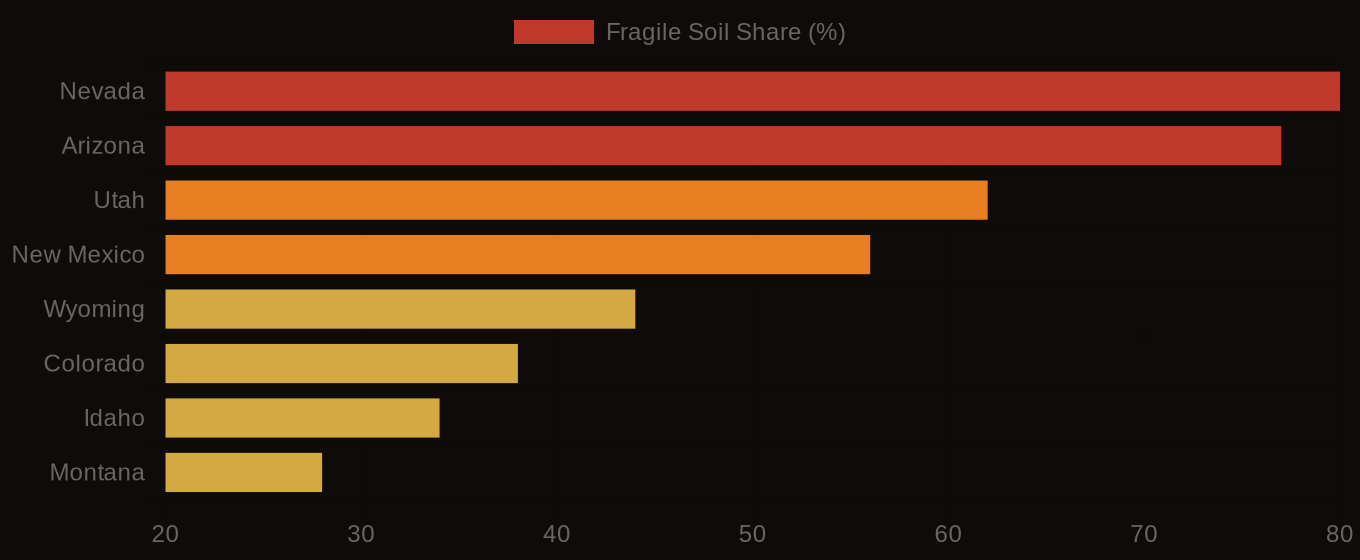
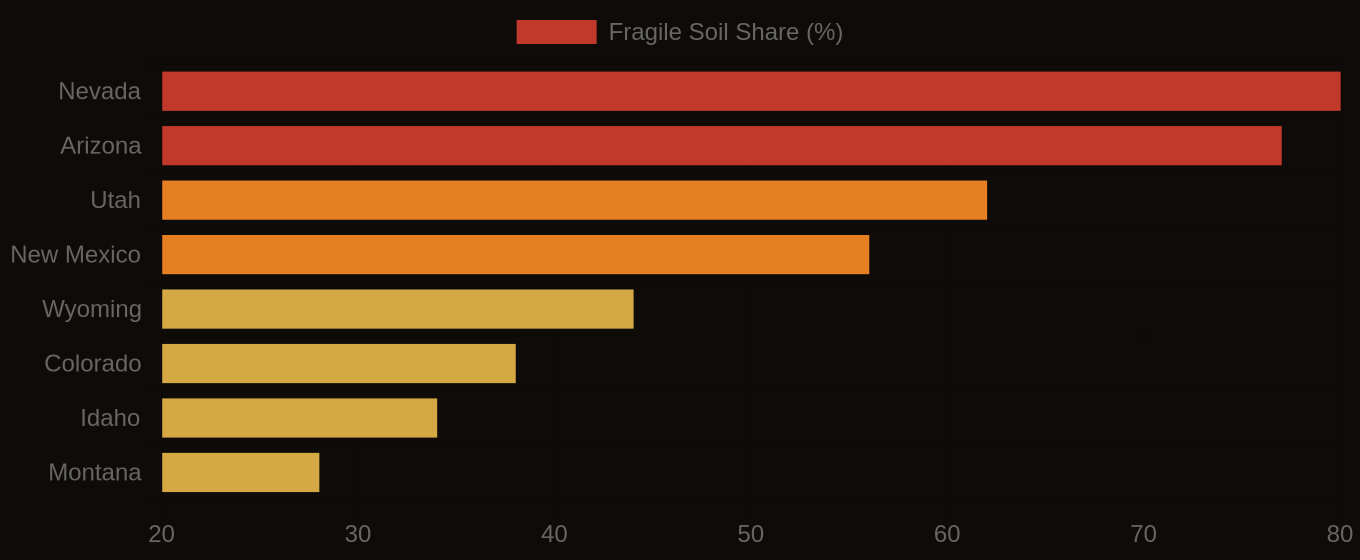
content: publish -- Nevada and Arizona Are Running Out of Stable Ground

diff --git a/articles/nevada-and-arizona-are-running-out-of-stable-ground-1780775741405.html b/articles/nevada-and-arizona-are-running-out-of-stable-ground-1780775741405.html
@@ -3,7 +3,7 @@
 <head>
 <meta charset="UTF-8">
 <meta name="viewport" content="width=device-width, initial-scale=1.0">
-<title>Nevada and Arizona Are Running Out of Stable Ground - Lab10YR</title>
+<title>Nevada and Arizona Are Running Out of Stable Ground &mdash; Lab10YR</title>
 <meta name="description" content="Nevada's soil is largely unstable, with 80% of its map units rated Fragile or higher. Most of the state's soil will sink over time.  Water table fluctuations cause this. ">
 <link rel="canonical" href="https://lab10yr.com/articles/nevada-and-arizona-are-running-out-of-stable-ground-1780775741405">
 <meta property="og:type" content="article">
@@ -25,7 +25,7 @@
 <script src="https://cdn.jsdelivr.net/npm/echarts@5/dist/echarts.min.js" defer id="echarts-js"></script>
 <style>
 *{box-sizing:border-box;margin:0;padding:0}
-:root{--gold:#f59e0b;--gold2:#fcd34d;--rust:#c0392b;--bg:#08080c;--bg2:#101018;--muted:#8a7a6a;--soft:#c8beb4;--ff-serif:'Playfair Display',Georgia,serif;--ff-mono:'DM Mono',monospace;--ff-sans:'DM Sans',system-ui,sans-serif;}
+:root{--gold:#c8973a;--gold2:#e8c46a;--rust:#c0392b;--bg:#0e0b08;--bg2:#13100d;--muted:#8a7a6a;--soft:#c8beb4;--ff-serif:'Playfair Display',Georgia,serif;--ff-mono:'DM Mono',monospace;--ff-sans:'DM Sans',system-ui,sans-serif;}
 html{scroll-behavior:smooth}
 body{background:var(--bg);color:#f0ede8;font-family:Georgia,'Times New Roman',serif;line-height:1.78}
 #progress{position:fixed;top:0;left:0;height:2px;background:var(--gold);z-index:200;width:0;transition:width .1s linear}
@@ -141,16 +141,23 @@ h1{font-family:var(--ff-serif);font-size:clamp(2.2rem,4.2vw,3.8rem);line-height:
 @media(max-width:900px){nav{padding:0 16px}.hero-grid{grid-template-columns:1fr;padding:0 20px;gap:32px}.hero-waffle-wrap{display:none}#article-wrap{grid-template-columns:1fr;padding:48px 20px 0}.sidebar{display:none}.callout-row{grid-template-columns:1fr}#article-footer{padding-left:20px;padding-right:20px}}
 .data-table-wrap{margin:20px 0 4px;overflow-x:auto}.data-table{width:100%;border-collapse:collapse;font-family:var(--ff-mono);font-size:10px}.data-table th{text-align:left;color:var(--gold);font-size:8px;letter-spacing:.12em;text-transform:uppercase;padding:7px 10px;border-bottom:1px solid #3a2e20}.data-table td{padding:6px 10px;border-bottom:1px solid #1e1710;color:var(--soft)}.data-table tr:hover td{background:#13100d}.data-val{color:#f0ede8;font-weight:600;text-align:right}.data-table-source{font-family:var(--ff-mono);font-size:8px;color:#5a4a3a;letter-spacing:.06em;margin-top:5px;text-align:right}
 </style>
-<link rel="stylesheet" href="../assets/lab10yr-theme.css?v=20260723b">
 </head>
 <body>
 <div id="progress"></div>
-<nav id="nav"><a class="nav-link" href="/articles/" style="display:none">Articles</a></nav>
+<nav>
+  <a href="https://lab10yr.com" class="nav-brand"><span>Lab</span>10<em style="font-style:normal;color:var(--gold2)">YR</em></a>
+  <div class="nav-links">
+    <a href="https://lab10yr.com/Regenerative-Agriculture-Risk-Map" rel="noopener noreferrer">Risk Map</a>
+    <a href="https://lab10yr.com/soil-data-stories" rel="noopener noreferrer">Data Stories</a>
+    <a href="https://lab10yr.com/articles/" rel="noopener noreferrer">Articles</a>
+    <a href="https://lab10yr.com/#contact" class="nav-cta" rel="noopener noreferrer">Get in Touch</a>
+  </div>
+</nav>
 
 <section id="hero">
   <div class="hero-grid">
     <div>
-      <div class="hero-kicker">Lab10YR - Soil Intelligence</div>
+      <div class="hero-kicker">Lab10YR &mdash; Soil Intelligence</div>
       <h1>Nevada and Arizona Are Running Out of Stable Ground</h1>
       <p class="hero-deck">Nevada's soil is largely unstable, with 80% of its map units rated Fragile or higher. Most of the state's soil will sink over time.  Water table fluctuations cause this. </p>
       <div class="hero-byline">
@@ -161,18 +168,18 @@ h1{font-family:var(--ff-serif);font-size:clamp(2.2rem,4.2vw,3.8rem);line-height:
       </div>
     </div>
     <div class="hero-waffle-wrap">
-      <div class="waffle-label">FSI class distribution - 100 map units</div>
+      <div class="waffle-label">FSI class distribution — 100 map units</div>
       <div class="waffle-grid" id="waffle"></div>
       <div class="waffle-legend"><div class="wl"><div class="wl-swatch wc-fragile"></div> Fragile+</div><div class="wl"><div class="wl-swatch wc-mod-frag"></div> Mod. Fragile</div><div class="wl"><div class="wl-swatch wc-slight"></div> Slightly Fragile</div><div class="wl"><div class="wl-swatch wc-none"></div> Not Fragile</div></div>
       <div class="waffle-stat">13.3%</div>
-      <div class="waffle-stat-label">of rated map units are Fragile<br>or higher - 28,122 of 211,283</div>
+      <div class="waffle-stat-label">of rated map units are Fragile<br>or higher — 28,122 of 211,283</div>
     </div>
   </div>
 </section>
 
 <section id="hero-viz">
   <figure class="hero-viz-fig">
-    <img src="social-nevada-and-arizona-are-running-out-of-stable-ground-1780775741405.png" alt="Nevada and Arizona Are Running Out of Stable Ground - Lab10YR data visualization" loading="eager" width="1200" height="627">
+    <img src="social-nevada-and-arizona-are-running-out-of-stable-ground-1780775741405.png" alt="Nevada and Arizona Are Running Out of Stable Ground — Lab10YR data visualization" loading="eager" width="1200" height="627">
   </figure>
 </section>
 
@@ -212,7 +219,7 @@ Soil quality is a major concern in these regions.</p>
   </div>
 
   <div class="echarts-section">
-    <h2 class="echarts-title">Multi-Hazard Soil Risk - Five Western States Compared</h2>
+    <h2 class="echarts-title">Multi-Hazard Soil Risk — Five Western States Compared</h2>
     <div class="echarts-subtitle">Radar comparison: FSI, OM depletion, corrosivity, shrink-swell, drainage risk · SSURGO</div>
     <div class="echarts-wrap">
       <div id="echarts-main" style="height:340px"></div>
@@ -242,7 +249,7 @@ STAT: 71.6% -- The majority of rated map units show Moderately high or High orga
       <div id="state-map"></div>
       <div id="map-tip" class="map-tip"></div>
     </div>
-    <div class="map-note">Interactive map - hover for state-level data &middot; click to open the full risk map</div>
+    <div class="map-note">Interactive map &mdash; hover for state-level data &middot; click to open the full risk map</div>
   </div>
 
   <div class="article-section">
@@ -266,7 +273,7 @@ To learn more, visit lab10yr.com, contact us at info@lab10yr.com, or support our
 
   <div class="map-cta-full">
     <a href="https://lab10yr.com/Regenerative-Agriculture-Risk-Map" target="_blank" rel="noopener noreferrer" class="map-btn">&#x1F5FA; Explore the Soil Risk Map &rarr;</a>
-    <div class="map-cta-desc">Split-screen county-level view of Fragile Soil Index vs. Organic Matter Depletion risk - with live SSURGO data lookup by location.</div>
+    <div class="map-cta-desc">Split-screen county-level view of Fragile Soil Index vs. Organic Matter Depletion risk — with live SSURGO data lookup by location.</div>
   </div>
 </article>
 
@@ -274,11 +281,11 @@ To learn more, visit lab10yr.com, contact us at info@lab10yr.com, or support our
   <div class="sidebar-block">
     <div class="sidebar-label">National Average FSI</div>
     <div class="sidebar-stat-num">0.272</div>
-    <div class="sidebar-stat-label">on a 0-1 scale where &gt;0.5 indicates elevated fragility risk</div>
+    <div class="sidebar-stat-label">on a 0–1 scale where &gt;0.5 indicates elevated fragility risk</div>
   </div><div class="sidebar-block">
     <div class="sidebar-label">Nevada</div>
     <div class="sidebar-stat-num" style="color:#c0392b">80%</div>
-    <div class="sidebar-stat-label">of map units rated Fragile or higher - highest in the nation</div>
+    <div class="sidebar-stat-label">of map units rated Fragile or higher — highest in the nation</div>
   </div><div class="sidebar-block">
     <div class="sidebar-label">Organic Matter Risk</div>
     <div class="sidebar-stat-num">71.6%</div>
@@ -313,7 +320,7 @@ To learn more, visit lab10yr.com, contact us at info@lab10yr.com, or support our
     <a href="https://lab10yr.com/Regenerative-Agriculture-Risk-Map" target="_blank" rel="noopener noreferrer">Regenerative Agriculture Risk Map &rarr;</a>
     <a href="https://lab10yr.com/soil-data-stories" target="_blank" rel="noopener noreferrer">The World Beneath: 7-Chapter Data Story on America&rsquo;s Soils &rarr;</a>
     <a href="https://lab10yr.com/county-risk-leaderboard" target="_blank" rel="noopener noreferrer">County Risk Leaderboard &rarr;</a>
-    <a href="https://lab10yr.com/soil-atlas" target="_blank" rel="noopener noreferrer">Soil Atlas - Interactive National Soil Pattern Explorer &rarr;</a>
+    <a href="https://lab10yr.com/soil-atlas" target="_blank" rel="noopener noreferrer">Soil Atlas &mdash; Interactive National Soil Pattern Explorer &rarr;</a>
   </div>
 </div>
 
@@ -326,7 +333,7 @@ document.addEventListener('DOMContentLoaded',()=>{if(typeof maplibregl!=='undefi
 function stateColor(d){const fsi=d.fsi||0;return fsi>=0.5?'rgba(192,57,43,0.75)':fsi>=0.35?'rgba(230,126,34,0.65)':fsi>=0.25?'rgba(200,151,58,0.5)':fsi>0?'rgba(200,151,58,0.3)':'rgba(30,23,16,0.4)';}
 function initMap(){if(!document.getElementById('state-map')||window._mi)return;window._mi=true;const map=new maplibregl.Map({container:'state-map',style:{version:8,sources:{c:{type:'raster',tiles:['https://basemaps.cartocdn.com/dark_nolabels/{z}/{x}/{y}.png'],tileSize:256,attribution:'&copy; CARTO &copy; OSM'}},layers:[{id:'c',type:'raster',source:'c'}]},center:[-98,38],zoom:3.4,maxZoom:8,minZoom:2,attributionControl:false});map.addControl(new maplibregl.AttributionControl({compact:true}));map.addControl(new maplibregl.NavigationControl({showCompass:false}),'top-right');const sd={'NV':{fsi:0.521,om:98},'AZ':{fsi:0.495,om:99},'UT':{fsi:0.41,om:92},'NM':{fsi:0.38,om:87},'WY':{fsi:0.32,om:65},'CO':{fsi:0.29,om:75},'ID':{fsi:0.27,om:55},'MT':{fsi:0.24,om:45},'CA':{fsi:0.22,om:60},'TX':{fsi:0.21,om:96},'OR':{fsi:0.20,om:48},'WA':{fsi:0.19,om:42},'KS':{fsi:0.16,om:70},'NE':{fsi:0.15,om:65},'OK':{fsi:0.14,om:72},'SD':{fsi:0.18,om:38},'ND':{fsi:0.17,om:35},'MN':{fsi:0.13,om:25},'IA':{fsi:0.12,om:22},'MO':{fsi:0.11,om:30},'IL':{fsi:0.10,om:28},'IN':{fsi:0.09,om:26},'OH':{fsi:0.09,om:24},'MI':{fsi:0.08,om:22}};const fp={'32':'NV','04':'AZ','49':'UT','35':'NM','56':'WY','08':'CO','16':'ID','30':'MT','06':'CA','48':'TX','41':'OR','53':'WA','20':'KS','31':'NE','40':'OK','46':'SD','38':'ND','27':'MN','19':'IA','29':'MO','17':'IL','18':'IN','39':'OH','26':'MI'};map.on('load',()=>{fetch('/articles/us-states-topo.json').then(r=>r.json()).then(topo=>{const gj=topojson.feature(topo,topo.objects.states);gj.features.forEach(f=>{const a=fp[f.id]||'';const d=sd[a]||{};f.properties.abbr=a;f.properties.fsi=d.fsi||0;f.properties.om=d.om||0;f.properties.color=stateColor(d);});map.addSource('states',{type:'geojson',data:gj});map.addLayer({id:'sf',type:'fill',source:'states',paint:{'fill-color':['get','color'],'fill-outline-color':'rgba(200,151,58,0.25)'}});map.addLayer({id:'sl',type:'line',source:'states',paint:{'line-color':'rgba(200,151,58,0.2)','line-width':0.5}});const tip=document.getElementById('map-tip');map.on('mousemove','sf',e=>{const f=e.features[0];if(!f){tip.style.display='none';return;}map.getCanvas().style.cursor='pointer';const a=f.properties.abbr,fsi=f.properties.fsi,om=f.properties.om;tip.innerHTML=a?`<strong>${a}</strong><br>Avg FSI: ${fsi?fsi.toFixed(3):"n/a"}<br>Fragile+: ${om?om+"%":"n/a"}`:'<em>No data</em>';tip.style.display='block';});map.on('mouseleave','sf',()=>{map.getCanvas().style.cursor='';tip.style.display='none';});map.on('click','sf',()=>{window.open('https://lab10yr.com/Regenerative-Agriculture-Risk-Map','_blank','noopener');});}).catch(e=>console.error('Map load failed:',e));});}
 (function(){document.querySelectorAll('.callout-num').forEach(function(el){var raw=el.textContent.trim();var m=raw.match(/^(d[d.,]*)/);if(!m)return;var num=parseFloat(m[1].replace(/,/g,''));var suffix=raw.slice(m[1].length);var dec=raw.indexOf('.')>=0?1:0;el.textContent='0'+suffix;new IntersectionObserver(function(entries,obs){if(!entries[0].isIntersecting)return;obs.disconnect();var t=null;function step(ts){if(!t)t=ts;var p=Math.min((ts-t)/900,1);var e=1-Math.pow(1-p,3);el.textContent=(e*num).toFixed(dec)+suffix;if(p<1)requestAnimationFrame(step);else el.textContent=num.toFixed(dec).replace(/.0$/,'')+suffix;}requestAnimationFrame(step);},{threshold:0.6}).observe(el);});})();
-(function(){const u=encodeURIComponent(location.href),t=encodeURIComponent(document.title.replace(' - Lab10YR',''));document.getElementById('share-x').href='https://twitter.com/intent/tweet?url='+u+'&text='+t+'&via=lab10yr';document.getElementById('share-li').href='https://www.linkedin.com/sharing/share-offsite/?url='+u;document.getElementById('share-copy').addEventListener('click',function(){navigator.clipboard.writeText(location.href).then(()=>{this.textContent='Copied!';setTimeout(()=>this.textContent='Copy Link',2000);});});})();
+(function(){const u=encodeURIComponent(location.href),t=encodeURIComponent(document.title.replace(' — Lab10YR',''));document.getElementById('share-x').href='https://twitter.com/intent/tweet?url='+u+'&text='+t+'&via=lab10yr';document.getElementById('share-li').href='https://www.linkedin.com/sharing/share-offsite/?url='+u;document.getElementById('share-copy').addEventListener('click',function(){navigator.clipboard.writeText(location.href).then(()=>{this.textContent='Copied!';setTimeout(()=>this.textContent='Copy Link',2000);});});})();
 (function(){
   const cfg={"backgroundColor":"transparent","legend":{"bottom":0,"textStyle":{"color":"#8a7a6a","fontSize":9}},"radar":{"indicator":[{"name":"FSI Score\n(×100)","max":60},{"name":"OM\nDepletion %","max":100},{"name":"Corrosivity\n%","max":80},{"name":"Shrink-\nSwell %","max":60},{"name":"Fragile+\n%","max":100}],"center":["50%","48%"],"radius":"60%","axisName":{"color":"#c8beb4","fontSize":9},"splitLine":{"lineStyle":{"color":"#2a1e0f"}},"splitArea":{"areaStyle":{"color":["rgba(20,14,8,0.4)","rgba(30,23,16,0.3)"]}},"axisLine":{"lineStyle":{"color":"#2a1e0f"}}},"tooltip":{"trigger":"item","backgroundColor":"#13100d","borderColor":"#3a2e20","textStyle":{"color":"#f0ede8","fontSize":11}},"series":[{"type":"radar","data":[{"name":"Nevada","value":[52,98,45,18,80],"lineStyle":{"color":"#c0392b","width":2},"areaStyle":{"color":"#c0392b30"},"itemStyle":{"color":"#c0392b"}},{"name":"Arizona","value":[50,99,42,22,77],"lineStyle":{"color":"#e67e22","width":2},"areaStyle":{"color":"#e67e2230"},"itemStyle":{"color":"#e67e22"}},{"name":"Texas","value":[21,96,62,58,21],"lineStyle":{"color":"#d4a843","width":2},"areaStyle":{"color":"#d4a84330"},"itemStyle":{"color":"#d4a843"}},{"name":"Utah","value":[41,92,35,30,62],"lineStyle":{"color":"#c8973a","width":2},"areaStyle":{"color":"#c8973a30"},"itemStyle":{"color":"#c8973a"}},{"name":"Colorado","value":[29,75,28,24,38],"lineStyle":{"color":"#2d6a4f","width":2},"areaStyle":{"color":"#2d6a4f30"},"itemStyle":{"color":"#2d6a4f"}}]}]};
   function tryInit(){
@@ -360,6 +367,5 @@ window.addEventListener('load',function(){
   }
 });
 </script>
-<script src="../js/lab10yr-nav.js?v=20260723b" defer></script>
 </body>
 </html>

diff --git a/articles/index.html b/articles/index.html
@@ -597,7 +597,7 @@ footer span{font-family:var(--ff-mono);font-size:9px;color:#2a1e0f}
     <a href="/articles/nevada-and-arizona-are-running-out-of-stable-ground-1780775741405" class="card-link">
       <div class="card-meta">
         <span class="card-date">June 6, 2026</span>
-        <span class="card-tag">Soil Intelligence</span>
+        <span class="card-tag">Soil</span>
         <span class="card-read">10 min read</span>
       </div>
       <h2 class="card-title">Nevada and Arizona Are Running Out of Stable Ground</h2>
